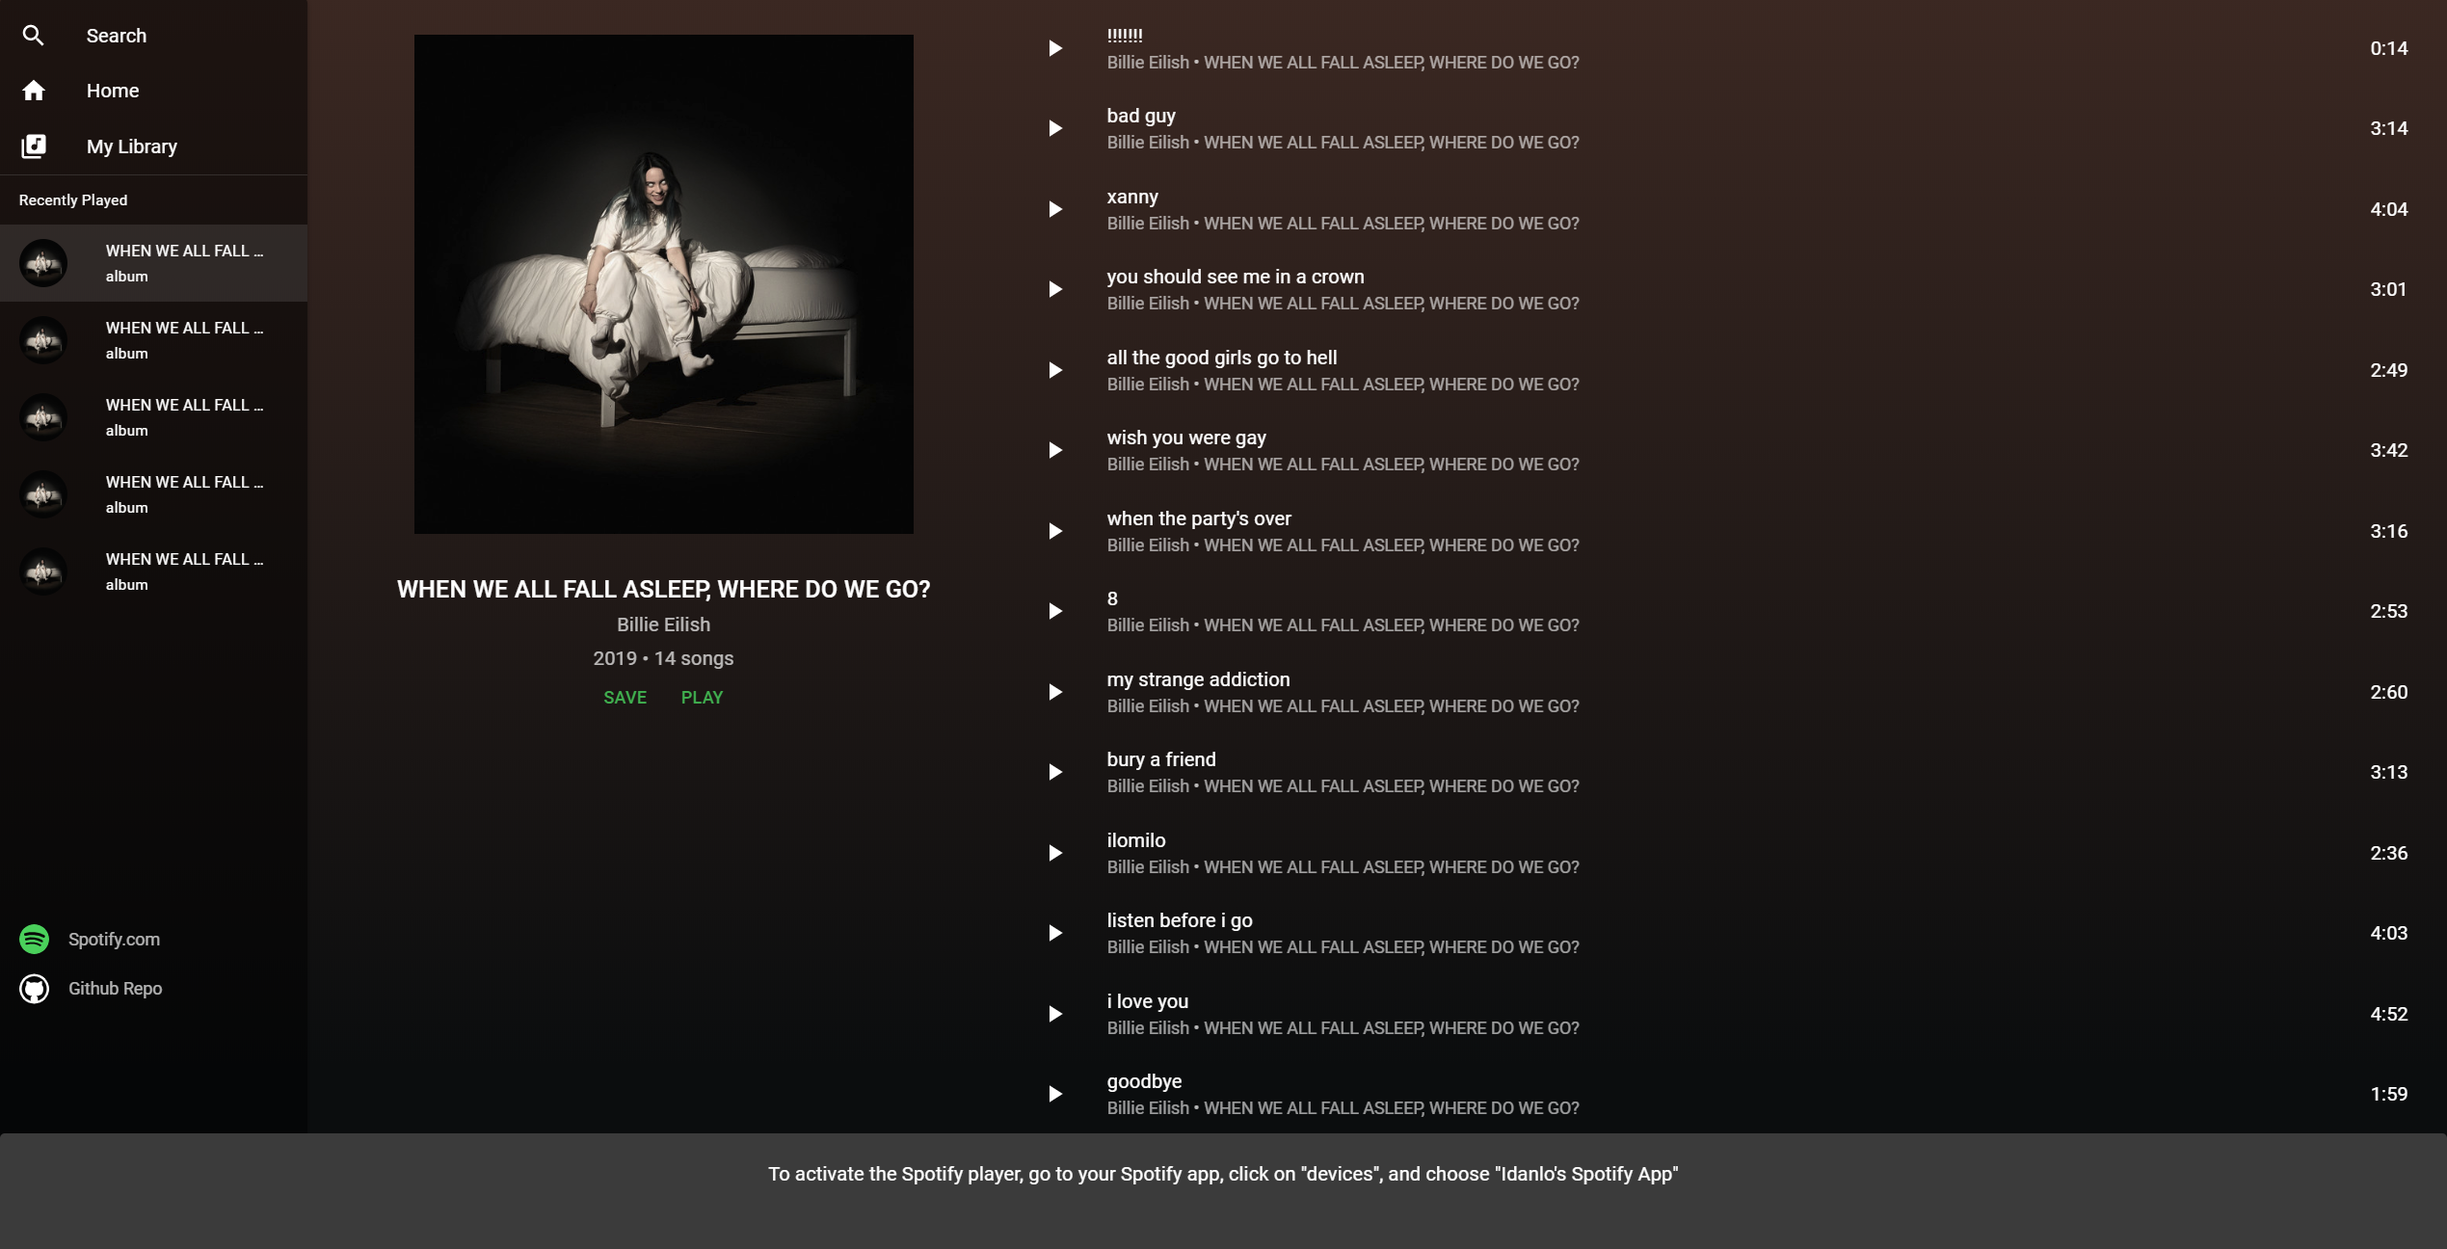
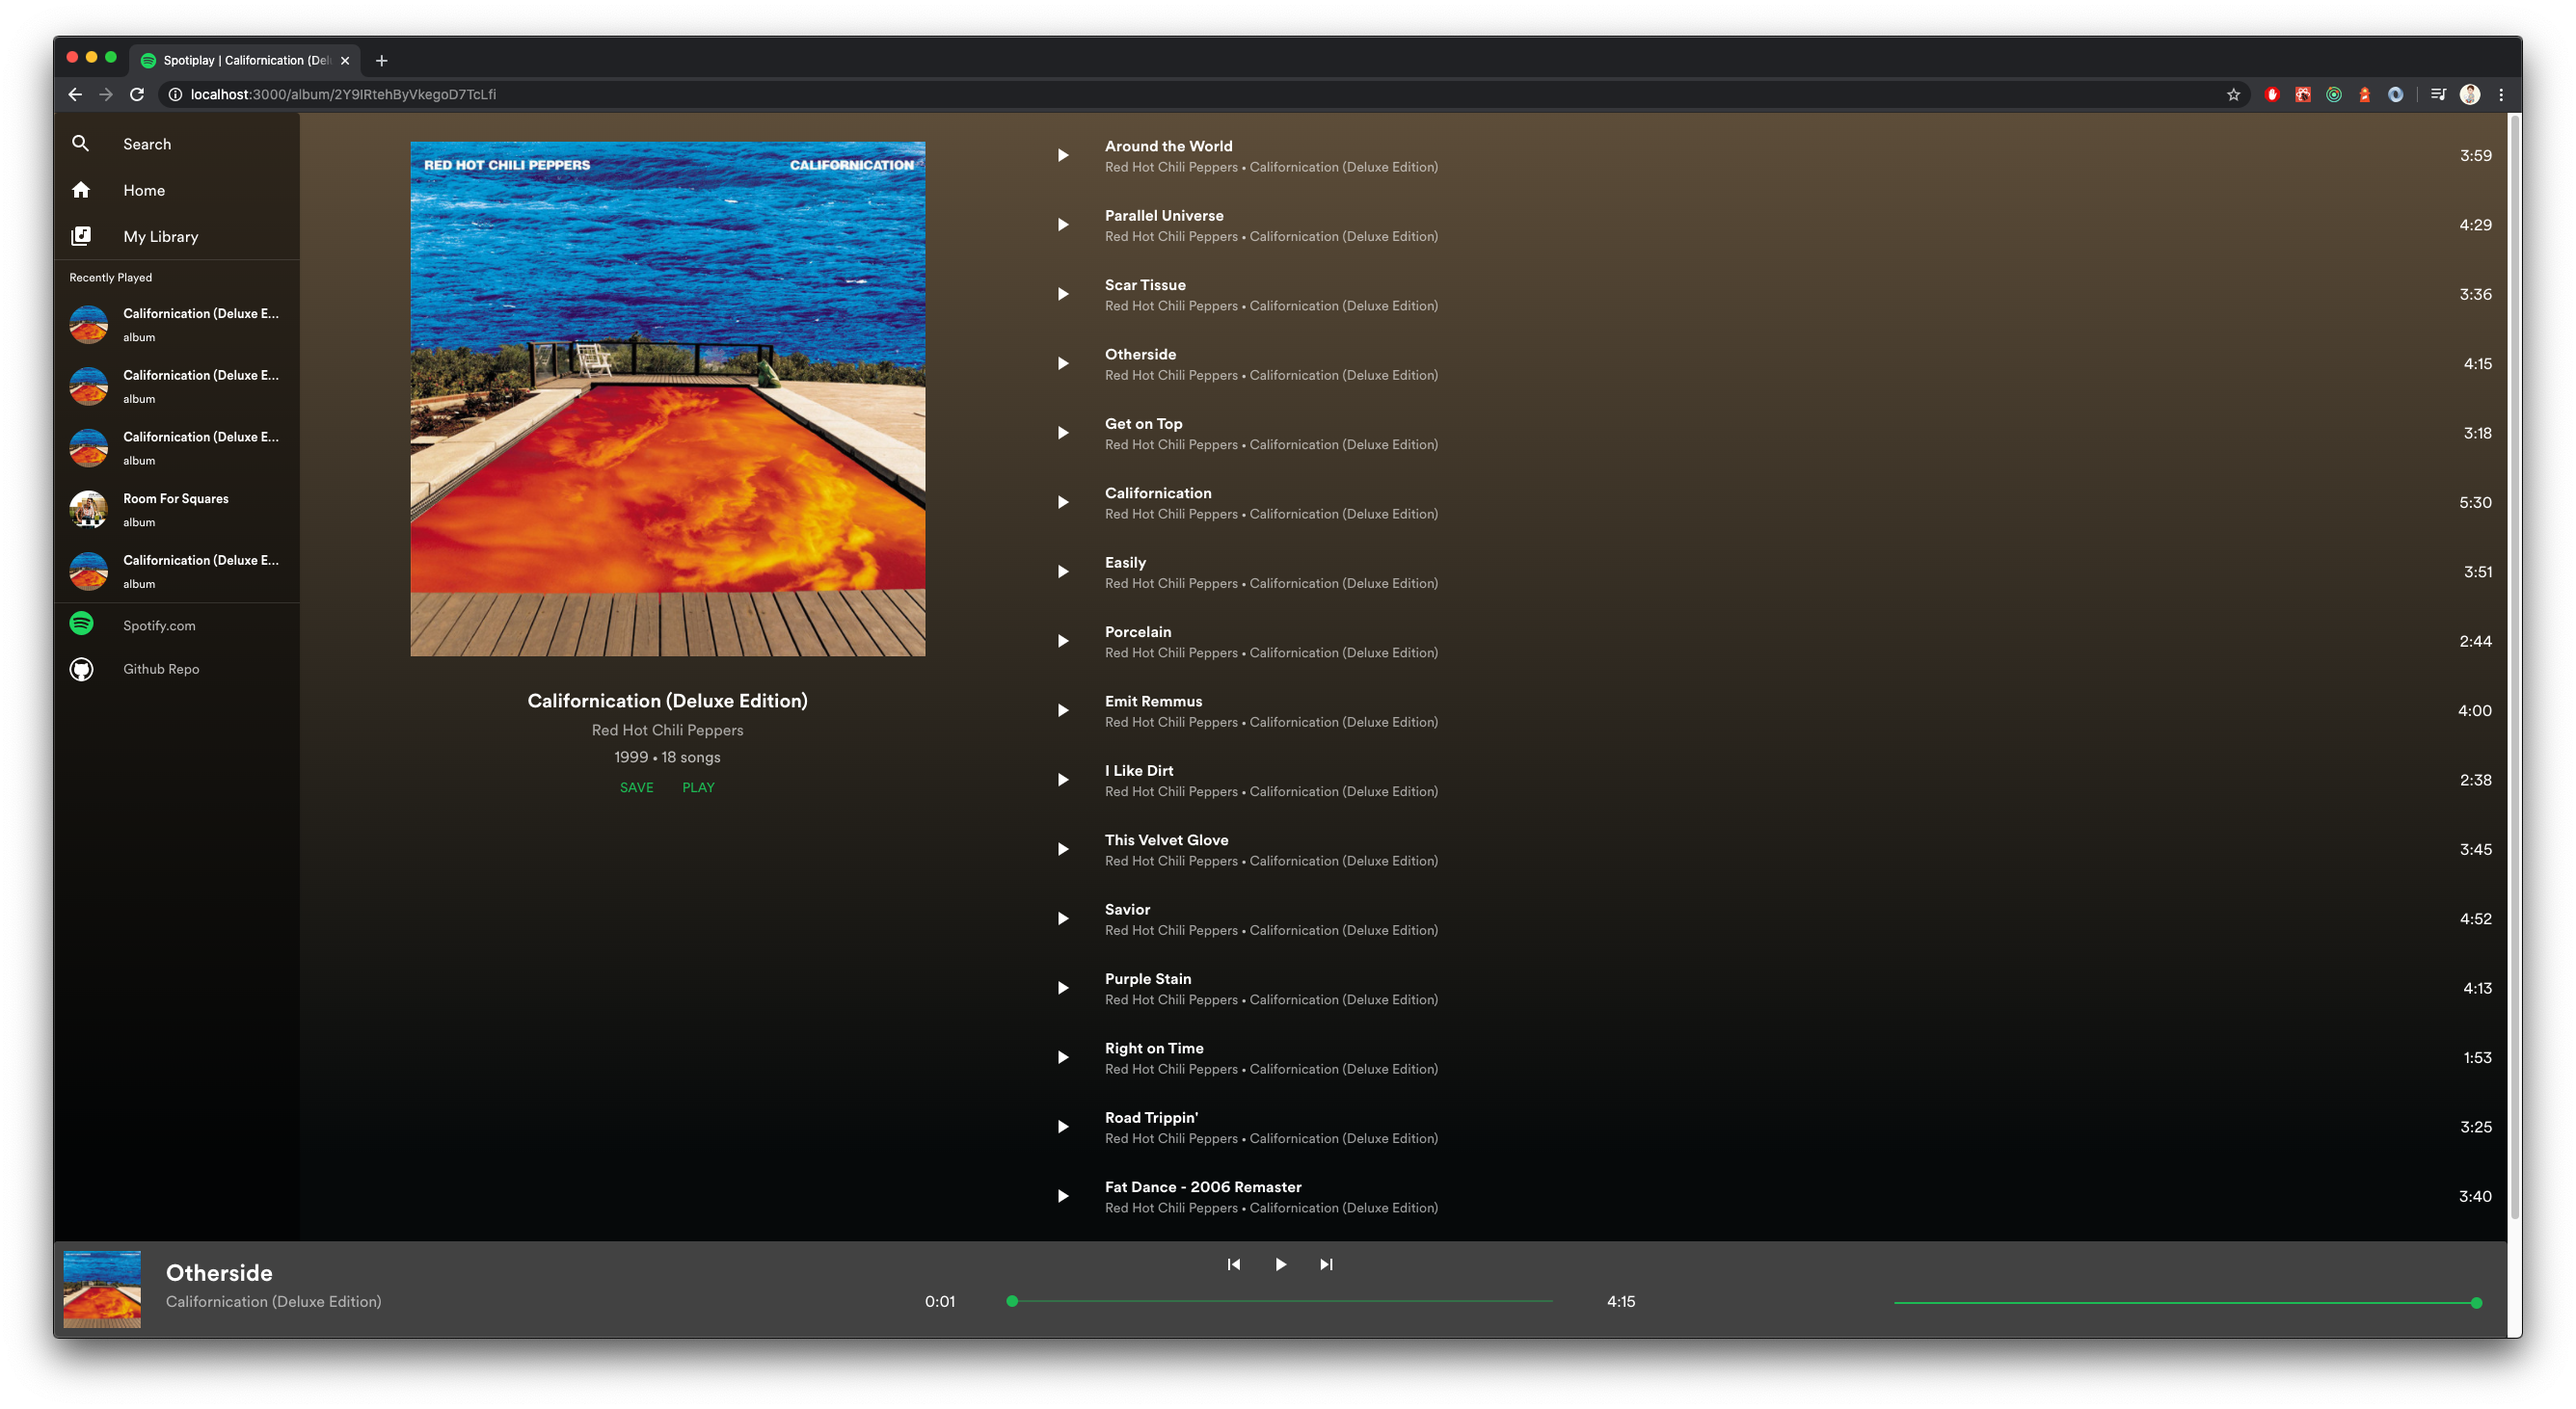
update screenshots

diff --git a/README.md b/README.md
@@ -1,15 +1,15 @@
 # A Spotify client made with Rect
 
-## [Demo](https://react-spotify.netlify.com)
+## [Demo](https://spotiplay.netlify.app)
 
-# New Releases
+# Home
 
-![NewReleases](https://raw.githubusercontent.com/idanlo/react-spotify/master/images/new_releases.png)
+![Home](https://raw.githubusercontent.com/idanlo/spotiplay/master/images/home.png)
 
 # Album
 
-![AlbumView](https://raw.githubusercontent.com/idanlo/react-spotify/master/images/album_view.png)
+![AlbumView](https://raw.githubusercontent.com/idanlo/spotiplay/master/images/album_view.png)
 
 # Search
 
-![Search](https://raw.githubusercontent.com/idanlo/react-spotify/master/images/search.png)
+![Search](https://raw.githubusercontent.com/idanlo/spotiplay/master/images/search.png)
